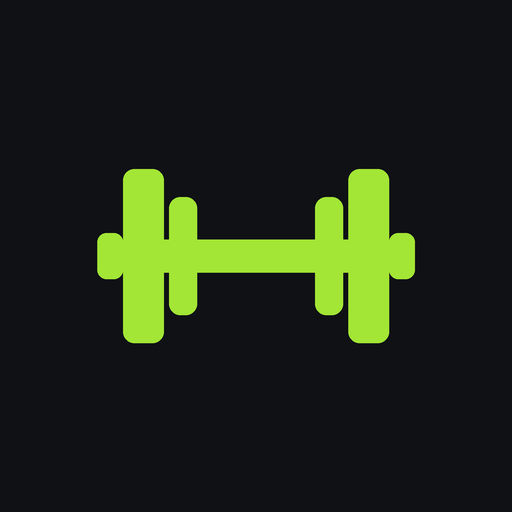
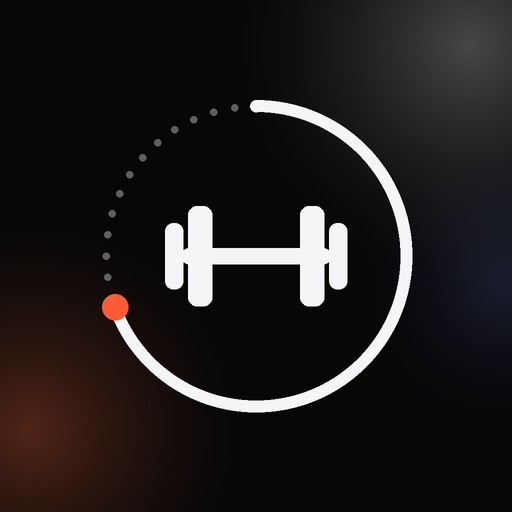
v1.3.1
Ícone novo no visual de vidro e cores do manifest.

Claude-Session: https://claude.ai/code/session_01H3tQpBPSyvaCY1RAgpn5Rv

diff --git a/sw.js b/sw.js
@@ -3,7 +3,7 @@
    - IMPORTANTE: ao publicar qualquer mudança no app, troque VERSAO abaixo
      (ex.: 'treino-v1.3.1'). É assim que o celular percebe a atualização.
    - A versão nova se ativa sozinha; o app recarrega quando não há treino em andamento. */
-const VERSAO = 'treino-v1.3.0';
+const VERSAO = 'treino-v1.3.1';
 const ARQUIVOS = ['./', './index.html', './manifest.json', './icon-192.png', './icon-512.png'];
 
 self.addEventListener('install', evento => {

diff --git a/index.html b/index.html
@@ -304,7 +304,7 @@ dialog h2{font-size:24px;letter-spacing:-.03em}
    CONFIGURAÇÃO GERAL
    ========================================================================== */
 const APP_ID = 'treino-pwa';
-const APP_VERSAO = '1.3.0';
+const APP_VERSAO = '1.3.1';
 const CHAVES = {
   plano: 'treino.plano.v1',
   config: 'treino.config.v1',
